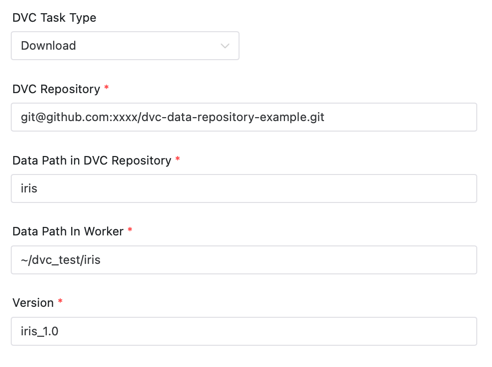
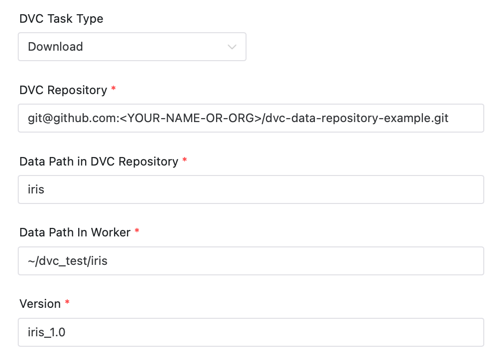
fix doc

diff --git a/docs/docs/en/guide/task/dvc.md b/docs/docs/en/guide/task/dvc.md
@@ -59,7 +59,7 @@ The data is not actually stored in a Git repository, but somewhere else, and DVC
 - **Remote Store Url** ：The actual data is stored at the address. You can learn about the supported storage types from the [DVC supported storage types](https://dvc.org/doc/command-reference/remote/add#supported-storage-types) .
 
 The example above shows that: 
-Initialize repository `git@github.com:xxxx/dvc-data-repository-example.git` as a DVC project and bind the remote storage address to `~/dvc`
+Initialize repository `git@github.com:<YOUR-NAME-OR-ORG>/dvc-data-repository-example.git` as a DVC project and bind the remote storage address to `~/dvc`
 
 ### Upload
 
@@ -76,9 +76,9 @@ Used to upload and update data and record version numbers.
 
 The example above shows that:
 
-Upload data `/home/lucky/MLflow-AutoML/data/iris` to the root directory of repository `git@github.com:<YOUR-NAME-OR-ORG>/dvc-data-repository-example.git`. The file or folder of data is named `iris`.
+Upload data `/home/data/iris` to the root directory of repository `git@github.com:<YOUR-NAME-OR-ORG>/dvc-data-repository-example.git`. The file or folder of data is named `iris`.
 
-Then run `git tag "iris_v1.0" -m "init iris data"`. Record the version tag `iris_v1.0` and the version message `inir Iris data`.
+Then run `git tag "iris_1.0" -m "init iris data"`. Record the version tag `iris_1.0` and the version message `inir iris data`.
 
 ### Download
 
@@ -94,7 +94,7 @@ Used to download data for a specific version.
 
 The example above shows that:
 
-Download the data for iris data at version `iris_1.0` in repository `git@github.com:xxxx/dvc-data-repository-example.git` to the `~/dvc_test/iris`
+Download the data for iris data at version `iris_1.0` in repository `git@github.com:<YOUR-NAME-OR-ORG>/dvc-data-repository-example.git` to the `~/dvc_test/iris`
 
 ## Environment to prepare
 
